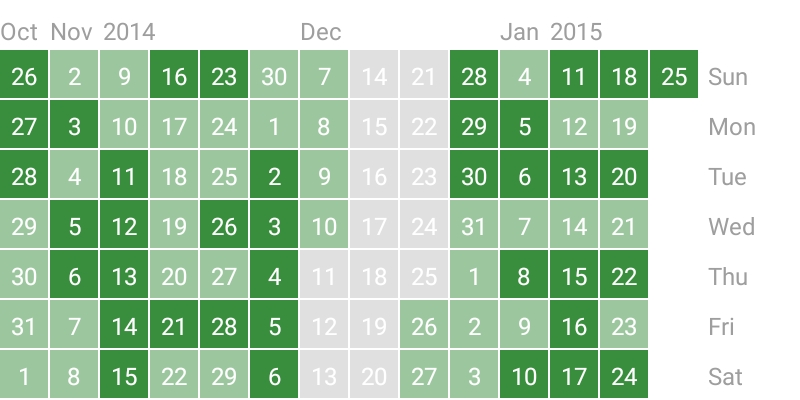
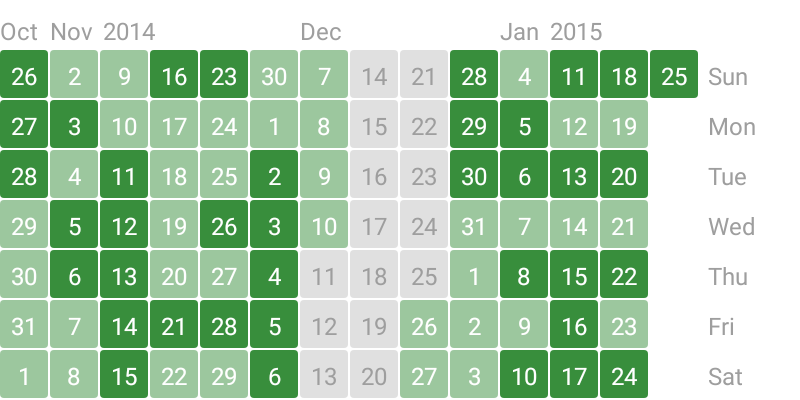
Improve readability of history and streak charts
Fixes #432

diff --git a/android/uhabits-android/src/main/java/org/isoron/uhabits/activities/common/views/HistoryChart.java b/android/uhabits-android/src/main/java/org/isoron/uhabits/activities/common/views/HistoryChart.java
@@ -75,13 +75,13 @@ public class HistoryChart extends ScrollableChart
 
     private int colors[];
 
+    private int textColors[];
+
     private RectF baseLocation;
 
     private int primaryColor;
 
     private boolean isBackgroundTransparent;
-
-    private int textColor;
 
     private int reverseTextColor;
 
@@ -232,6 +232,7 @@ public class HistoryChart extends ScrollableChart
         pTextHeader.setAntiAlias(true);
 
         pSquareBg = new Paint();
+        pSquareBg.setAntiAlias(true);
 
         pSquareFg = new Paint();
         pSquareFg.setAntiAlias(true);
@@ -250,7 +251,7 @@ public class HistoryChart extends ScrollableChart
         headerOverflow = 0;
         previousMonth = "";
         previousYear = "";
-        pTextHeader.setColor(textColor);
+        pTextHeader.setColor(textColors[1]);
 
         updateDate();
         GregorianCalendar currentDate = (GregorianCalendar) baseDate.clone();
@@ -367,27 +368,41 @@ public class HistoryChart extends ScrollableChart
                             GregorianCalendar date,
                             int checkmarkOffset)
     {
+
         int checkmark = 0;
-        if (checkmarkOffset >= checkmarks.length) pSquareBg.setColor(colors[0]);
+        if (checkmarkOffset >= checkmarks.length)
+        {
+            pSquareBg.setColor(colors[0]);
+            pSquareFg.setColor(textColors[1]);
+        }
         else
         {
             checkmark = checkmarks[checkmarkOffset];
             if(checkmark == 0)
+            {
                 pSquareBg.setColor(colors[0]);
+                pSquareFg.setColor(textColors[1]);
+            }
             else if(checkmark < target)
+            {
                 pSquareBg.setColor(colors[1]);
+                pSquareFg.setColor(textColors[2]);
+            }
             else
+            {
                 pSquareBg.setColor(colors[2]);
+                pSquareFg.setColor(textColors[2]);
+            }
         }
-
-        pSquareFg.setColor(reverseTextColor);
-        pSquareFg.setStrokeWidth(columnWidth * 0.025f);
 
         float round = dpToPixels(getContext(), 2);
         canvas.drawRoundRect(location, round, round, pSquareBg);
 
         if (!isNumerical && checkmark == SKIPPED)
         {
+            pSquareBg.setColor(colors[0]);
+            pSquareBg.setStrokeWidth(columnWidth * 0.025f);
+
             canvas.save();
             canvas.clipRect(location);
             float offset = - columnWidth;
@@ -398,7 +413,7 @@ public class HistoryChart extends ScrollableChart
                                 location.bottom,
                                 location.right + offset,
                                 location.top,
-                                pSquareFg);
+                                pSquareBg);
             }
             canvas.restore();
         }
@@ -448,7 +463,11 @@ public class HistoryChart extends ScrollableChart
             colors[0] = Color.argb(16, 255, 255, 255);
             colors[1] = Color.argb(128, red, green, blue);
             colors[2] = primaryColor;
-            textColor = Color.WHITE;
+
+            textColors = new int[3];
+            textColors[0] = Color.WHITE;
+            textColors[1] = Color.WHITE;
+            textColors[2] = Color.WHITE;
             reverseTextColor = Color.WHITE;
         }
         else
@@ -457,9 +476,12 @@ public class HistoryChart extends ScrollableChart
             colors[0] = res.getColor(R.attr.lowContrastTextColor);
             colors[1] = Color.argb(127, red, green, blue);
             colors[2] = primaryColor;
-            textColor = res.getColor(R.attr.mediumContrastTextColor);
-            reverseTextColor =
-                res.getColor(R.attr.highContrastReverseTextColor);
+
+            textColors = new int[3];
+            textColors[0] = res.getColor(R.attr.lowContrastReverseTextColor);
+            textColors[1] = res.getColor(R.attr.mediumContrastTextColor);
+            textColors[2] = res.getColor(R.attr.highContrastReverseTextColor);
+            reverseTextColor = res.getColor(R.attr.highContrastReverseTextColor);
         }
     }
 

diff --git a/android/uhabits-android/src/main/java/org/isoron/uhabits/activities/common/views/StreakChart.java b/android/uhabits-android/src/main/java/org/isoron/uhabits/activities/common/views/StreakChart.java
@@ -46,6 +46,8 @@ public class StreakChart extends View
 
     private int[] colors;
 
+    private int[] textColors;
+
     private RectF rect;
 
     private int baseSize;
@@ -69,8 +71,6 @@ public class StreakChart extends View
     private boolean shouldShowLabels;
 
     private int textColor;
-
-    private int reverseTextColor;
 
     public StreakChart(Context context)
     {
@@ -213,7 +213,7 @@ public class StreakChart extends View
 
         float yOffset = rect.centerY() + 0.3f * em;
 
-        paint.setColor(reverseTextColor);
+        paint.setColor(percentageToTextColor(percentage));
         paint.setTextAlign(Paint.Align.CENTER);
         canvas.drawText(Long.toString(streak.getLength()), rect.centerX(),
             yOffset, paint);
@@ -223,7 +223,7 @@ public class StreakChart extends View
             String startLabel = dateFormat.format(streak.getStart().toJavaDate());
             String endLabel = dateFormat.format(streak.getEnd().toJavaDate());
 
-            paint.setColor(textColor);
+            paint.setColor(textColors[1]);
             paint.setTextAlign(Paint.Align.RIGHT);
             canvas.drawText(startLabel, gap - textMargin, yOffset, paint);
 
@@ -258,8 +258,11 @@ public class StreakChart extends View
         colors[2] = Color.argb(192, red, green, blue);
         colors[1] = Color.argb(96, red, green, blue);
         colors[0] = res.getColor(R.attr.lowContrastTextColor);
-        textColor = res.getColor(R.attr.mediumContrastTextColor);
-        reverseTextColor = res.getColor(R.attr.highContrastReverseTextColor);
+
+        textColors = new int[3];
+        textColors[2] = res.getColor(R.attr.highContrastReverseTextColor);
+        textColors[1] = res.getColor(R.attr.mediumContrastTextColor);
+        textColors[0] = res.getColor(R.attr.lowContrastReverseTextColor);
     }
 
     private void initPaints()
@@ -275,6 +278,12 @@ public class StreakChart extends View
         if (percentage >= 0.8f) return colors[2];
         if (percentage >= 0.5f) return colors[1];
         return colors[0];
+    }
+
+    private int percentageToTextColor(float percentage)
+    {
+        if (percentage >= 0.5f) return textColors[2];
+        return textColors[1];
     }
 
     private void updateMaxMinLengths()
